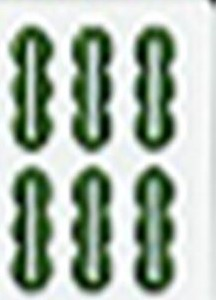
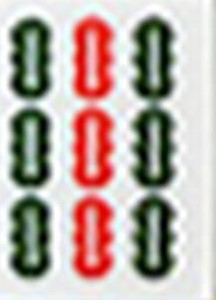
Bugfix
Cange missplaced tails images and make the Reload button always available on main window.

diff --git a/Mahjong2/MainWindow.xaml.cs b/Mahjong2/MainWindow.xaml.cs
@@ -49,7 +49,7 @@ namespace Mahjong2
             timerRemove.Tick += new EventHandler(timerRemove_Tick);
             timerRemove.Interval = TimeSpan.FromMilliseconds(20);
 
-            BtnReload.IsEnabled = false;
+            //BtnReload.IsEnabled = false;
         }
 
         private void BtnReload_Click(object sender, RoutedEventArgs e)
@@ -60,7 +60,7 @@ namespace Mahjong2
             CanBricks.Children.Add(TxtBlWellDone);
             TxtBlWellDone.Visibility = Visibility.Hidden;
             LoadBricks();
-            BtnReload.IsEnabled = false;
+            //BtnReload.IsEnabled = false;
         }
 
         void LoadBricksBr()
@@ -1663,7 +1663,7 @@ namespace Mahjong2
                     TxtBlWellDone.Visibility = Visibility.Visible;
                     TxtBlInfo.Text = "The winner, time used:" + ts.ToString() + " At date " + DateTime.Now.ToString();
                     File.AppendAllText("PlayLog.txt", "The winner, time used:" + ts.ToString() + " At date " + time + Environment.NewLine);
-                    BtnReload.IsEnabled = true;
+                    //BtnReload.IsEnabled = true;
                 }
                 else if (parLeft==0)
                 {
@@ -1671,7 +1671,7 @@ namespace Mahjong2
                     TimeSpan ts = DateTime.Now - startTime;//bricks left
                     TxtBlInfo.Text = parLeft + " Selectable pairs. Time used:" + ts.ToString() + " At date " + DateTime.Now.ToString();
                     File.AppendAllText("PlayLog.txt", "Bricks left " + numberOfBricksLeft + " and " + parLeft + " Selectable pairs. Time used:" + ts.ToString() + " At date " + time + Environment.NewLine);
-                    BtnReload.IsEnabled = true;
+                    //BtnReload.IsEnabled = true;
                 }
             }
         }
